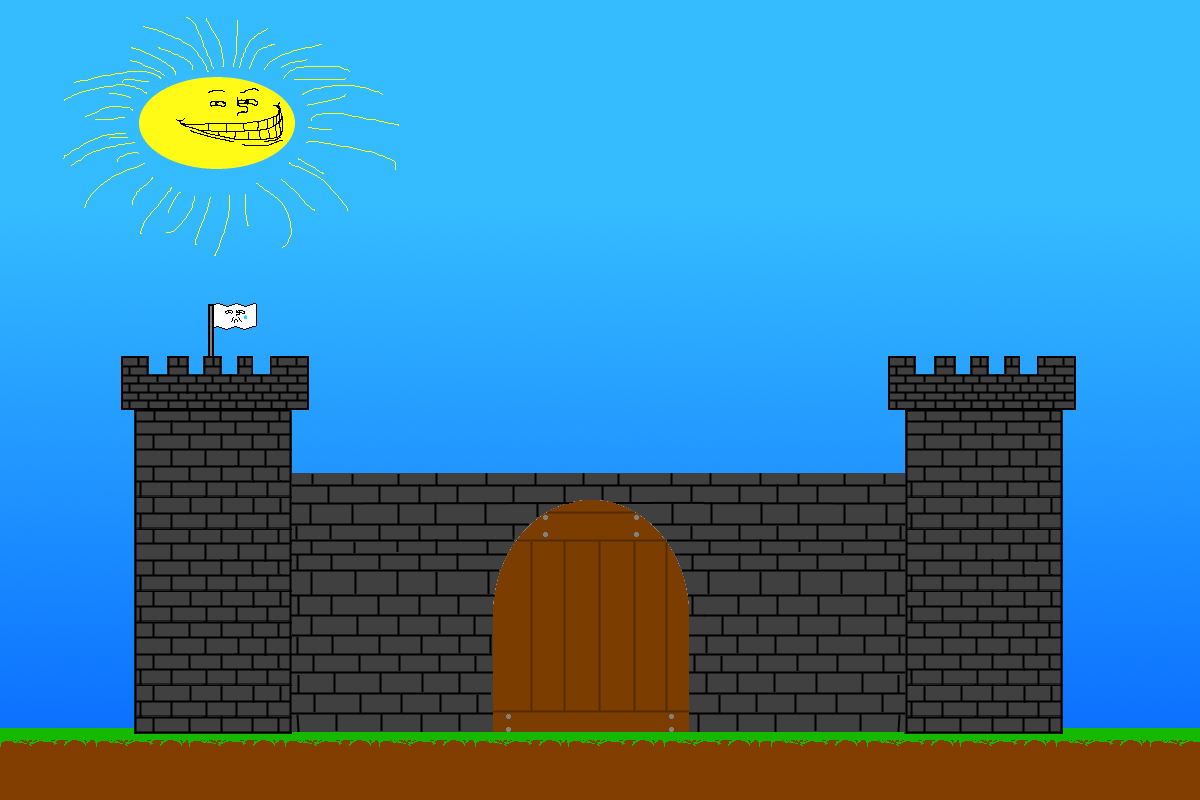
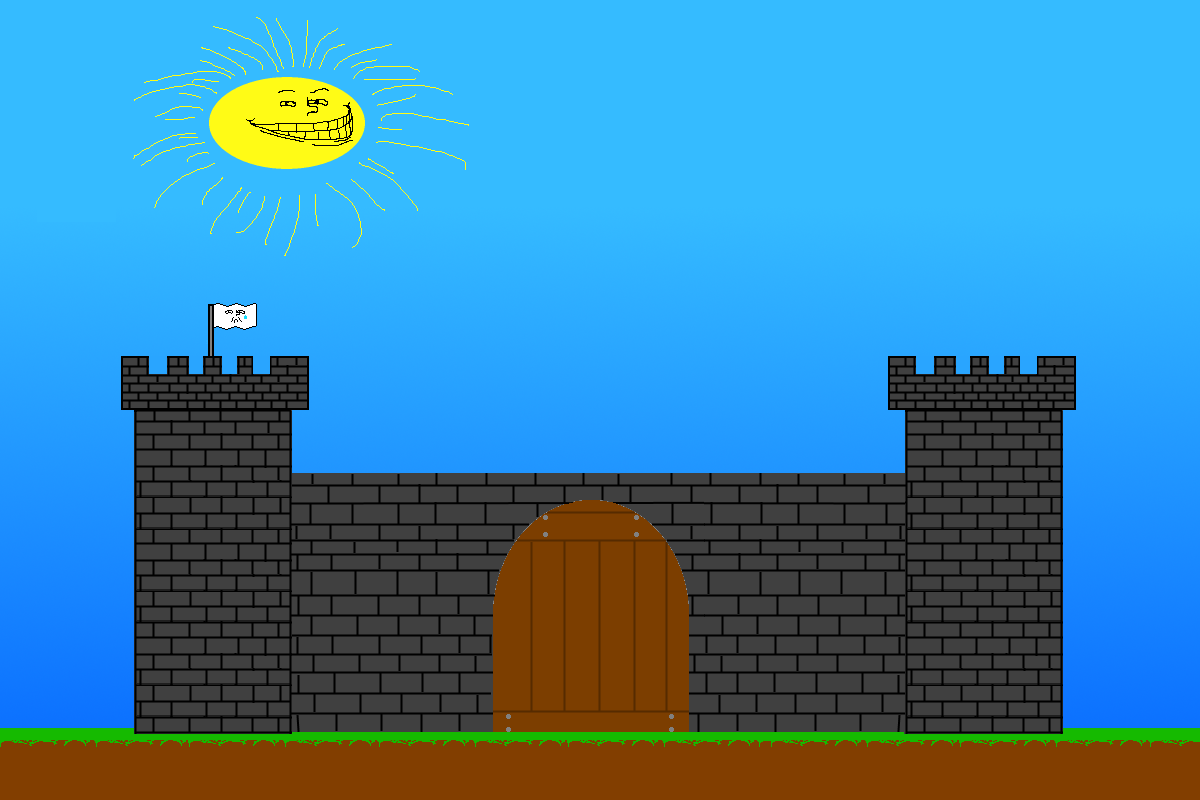
New background. Your welcome.

Changed region(s): [[0.0925, 0.0625, 0.3083, 0.2188]]

diff --git a/game/Home_Page/HomePage.html b/game/Home_Page/HomePage.html
@@ -3,7 +3,7 @@
 <head>
 <style>
 body {
-    background-image:url("/gameTheFolder/game/Home_Page/bigRockTheBackground.png");
+    background-image:url("NewBack.png");
 	}
 .whole {
 		padding-top: 200px;
@@ -60,8 +60,8 @@ body {
 				<div class="title">Justice Castle</div>
 				<div class="sub"><em>The awesome game!</div></em>
 			</div><br>
-			<div class="gamePage"><a href="/gameTheFolder/game/levels/level_one.html">PLAY GAME</a></div><br>
-			<div class="creators"><a href="/gameTheFolder/game/Home_Page/AboutCreators.html">About Creators</a><br/></div>
+			<div class="gamePage"><a href="../levels/level_one.html">PLAY GAME</a></div><br>
+			<div class="creators"><a href="AboutCreators.html">About Creators</a><br/></div>
 		</div>
 
 	</body>
